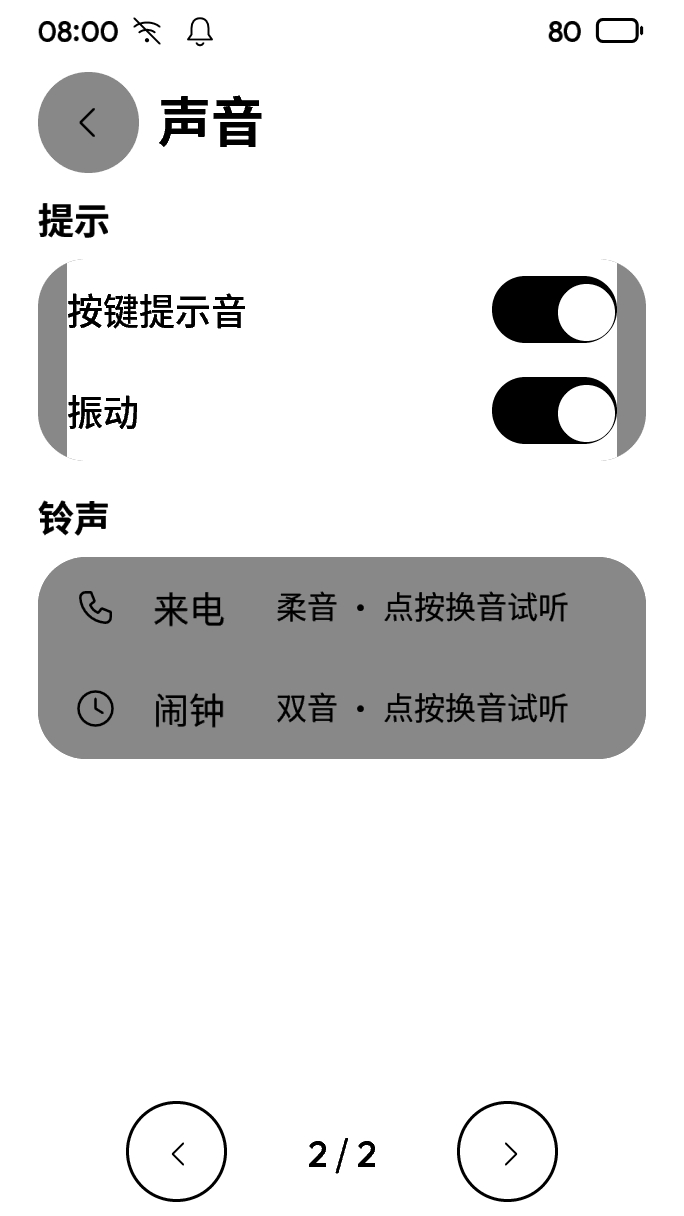
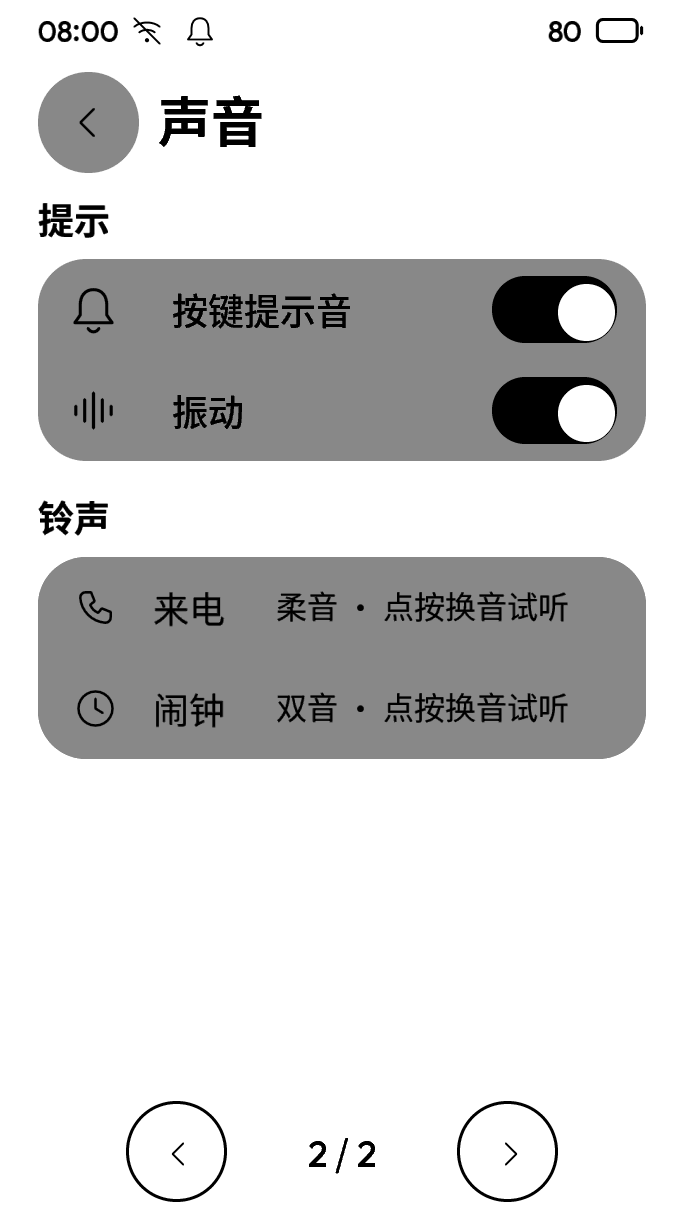
Record sound and countdown validation results

Changed region(s): [[0.0921, 0.1875, 0.9211, 0.4062]]

diff --git a/docs/tasks/sound-clock/REPORT.md b/docs/tasks/sound-clock/REPORT.md
@@ -6,10 +6,10 @@
 
 | 编号 | 结论 | 证据 | 命令 |
 | --- | --- | --- | --- |
-| 1 设置、声音、振动 | 【实测】专项通过；最终复验待完成 | 人和 AI 更改四项设置；两个实体键、两次触摸各恰好两声；高优先级通知、来电、闹钟各一震；来电选柔音、闹钟选双音；进程重启后四项保留 | C1 |
-| 2 倒计时 | 【实测】专项通过；最终复验待完成 | 触摸及 AI 开始、暂停、继续、取消、到点响铃和关闭；成人、孩子分别计时；分钟更新，2 秒内没有额外刷新；重启明确取消 | C1 |
+| 1 设置、声音、振动 | 【实测】最终专项通过 | 人和 AI 更改四项设置；两个实体键、两次触摸各恰好两声；高优先级通知、来电、闹钟各一震；来电选柔音、闹钟选双音；进程重启后四项保留 | C1 |
+| 2 倒计时 | 【实测】最终专项通过 | 触摸及 AI 开始、暂停、继续、取消、到点响铃和关闭；成人、孩子分别计时；分钟更新，2 秒内没有额外刷新；重启明确取消 | C1 |
 | 3 声音页对照、计时截图 | 【实测】46.001/255，超过 12；基线也是 46.001 | 原有字号、灰度、分页造成首屏与画板不同；新开关和铃声在第二页。计时截图见下，**没有画板，待用户看** | C2 |
-| 4 全量及内存检查 | 进行中，不能报通过 | 第一轮发现文档过期、响铃钩子、AI 清单和 AI 页面版本场景四项失败；前两处代码/测试接线已修并定向通过，最后两项处理边界见下 | C3、C4 |
+| 4 全量及内存检查 | 【实测】两轮均未全绿；无 ASan/UBSan 错误 | 最终原生 264 过、2 失败、3 依赖跳过；三项补跑全过。ASan 全量 267 过、同样 2 失败、无跳过；失败均为能力文档及短按键场景 | C3、C4 |
 
 复现命令（依赖位置使用任务指定的环境变量，先按总规则配置并构建）：
 
@@ -18,7 +18,10 @@
 INK_KEEP_EVIDENCE=1 taskpolicy -c utility "$INK_DEPS/build-deps/pyenv/bin/ctest" --test-dir build --output-on-failure -j2 -R '^(sound-clock|clock-alarm|integration-races|integration-ai-surface)$'
 # C2：与外部画板比较；外部画板未入库
 taskpolicy -c utility "$INK_DEPS/build-deps/pyenv/bin/python" tools/ui_compare.py --build build --design "$INK_DESIGN" --out work/ui-compare --scenes SetSound
-# C3 / C4：完整检查，保留实际失败，不跳过断言
+# C3 / C4：完整检查，保留实际失败，不跳过断言；原命令有三个依赖跳过
+# 加载现成锁定依赖和本仓库服务器包，以补齐这三个测试
+export PYTHONDONTWRITEBYTECODE=1
+export PYTHONPATH="$PWD/hub:$INK_DEPS/hub/.venv/lib/python3.11/site-packages"
 taskpolicy -c utility "$INK_DEPS/build-deps/pyenv/bin/ctest" --test-dir build --output-on-failure -j2
 taskpolicy -c utility "$INK_DEPS/build-deps/pyenv/bin/ctest" --test-dir build-asan --output-on-failure -j2
 # C5：撤掉关键实现，要求测试确实失败
@@ -38,7 +41,7 @@ taskpolicy -c utility "$INK_DEPS/build-deps/pyenv/bin/python" tools/capabilities
 
 【实现】声音在 `system/services/audio/audio_service.c` 程序生成，无下载素材、无第三方音源；音色基频为 880、660、330 Hz，按键为 1100 Hz，许可见 [SOUNDS-LICENSE.txt](SOUNDS-LICENSE.txt)。
 
-产品代码规模待最终统计。为什么不能更小：现有时间服务是持久的墙钟闹钟，不能直接表达可暂停的单调倒计时；已检查复用其记录的方案，会混入闹钟列表并改变重启语义。采用应用内倒计时数据及现有定时节点，四个设置、两处输入接线、振动和选音均复用现有服务。
+【实测】产品代码增删合计 196 行（含 4 行构建接线），未超过 300 行预算。为什么不能更小：现有时间服务是持久的墙钟闹钟，不能直接表达可暂停的单调倒计时；已检查复用其记录的方案，会混入闹钟列表并改变重启语义。采用应用内倒计时数据及现有定时节点，四个设置、两处输入接线、振动和选音均复用现有服务。
 
 ## 截图
 
@@ -61,7 +64,7 @@ taskpolicy -c utility "$INK_DEPS/build-deps/pyenv/bin/python" tools/capabilities
 ## 没做到的
 
 - 全量还不能报通过。`capability-table-doc` 检出新增六项能力、四项设置尚未汇入共享生成文档；总规则第 7 节禁止改该文件，留给合并主会话，C7 的临时生成/核对通过（428 项定义）。
-- AI 页面版本场景仍失败：【实测】当前版本工具结果为 done=5、缺少 stale；仅恢复基线 `clock.c` 后 done=4、stale=1、退出 0。19.5 秒的 80 毫秒翻页键，当前版底层送达计量为 6 次（只含三次 AI 键的按下/松开），基线计量为 8 次。具体丢键原因未确定，不能说是基线就有的失败；没有拉长脚本按键、加等待或放宽预算。
+- AI 页面版本场景仍失败：【实测】当前版本工具结果为 done=5、缺少 stale；仅恢复基线 `clock.c` 后 done=4、stale=1、退出 0。19.5 秒的 80 毫秒翻页键，当前版底层送达计量为 6 次（只含三次 AI 键的按下/松开），基线计量为 8 次。【实测】当前首次触摸 I2C 读取在 19.581722 秒，按键已在 19.580000 秒松开；基线首次读取在 19.570783 秒，仍能读到。【实现】既有盖板键模型经过 20 ms 检出、最多 60 ms 监测扫描延迟以及 I2C 排队，80 ms 按键存在被漏掉的边界。不能说基线同样失败；没有改模型、拉长脚本按键、加等待或放宽预算。
 - 未接触设备，未做真机听感、振动或续航测试；未在 Linux 上实际运行。
 
 ## 和设计不一致的
@@ -84,7 +87,10 @@ taskpolicy -c utility "$INK_DEPS/build-deps/pyenv/bin/python" tools/capabilities
 
 ## 新增的机制
 
-- 四个设置项：按键提示音、振动、来电铃声、闹钟铃声，均由任务书第 1、2 项要求；复用既有设置文件。
+- `audio.key_tone`：按键提示音开关，任务书第 1 项要求；复用既有设置文件。
+- `audio.vibration`：振动开关，任务书第 1 项要求；复用既有设置文件。
+- `audio.call_ring`：来电铃声选项，任务书第 2 项要求；复用既有设置文件。
+- `audio.alarm_ring`：闹钟铃声选项，任务书第 2 项要求；复用既有设置文件。
 - 倒计时运行、暂停和取消状态及每成员定时节点：任务书第 3 项要求；复用现有共享定时器、UI 执行器、唤醒引用与打断卡。
 - 无新增常驻任务、线程、文件格式、后台重试、缓存、队列或通用抽象层。
 
@@ -96,4 +102,6 @@ taskpolicy -c utility "$INK_DEPS/build-deps/pyenv/bin/python" tools/capabilities
 
 ## 最终检查
 
-待完成最终全量、内存检查、截图复核、隐私扫描及提交。
+【实测】最终原生和 ASan 构建均退出 0；全量结果见 [validation.json](validation.json)，专项计量见 [evidence.json](evidence.json)。三个原生依赖跳过项使用现成锁定环境补跑全部通过，未改依赖或安装软件。原生及 ASan 全量命令均因上述两项失败退出 8，不能称为全量通过。
+
+【实测】报告内链接与截图文件均存在，单文件远低于 5 MB；`git diff --check` 通过。产品增删 196 行，无刷新算法、时间服务、硬件驱动或受保护共享文档的改动。按总规则扫描基线至提交及工作区改动，均为零命中（grep 退出 1）。实现与最终证据分别提交在本任务分支。
